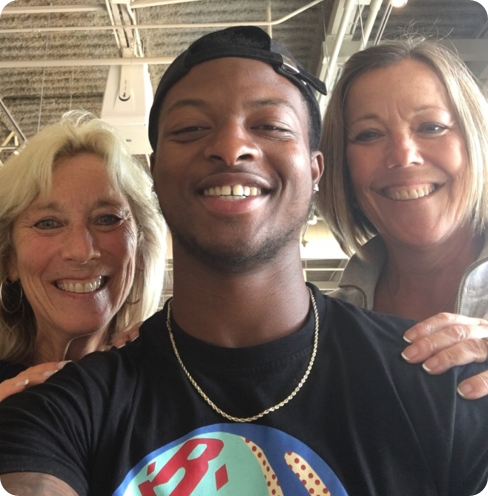
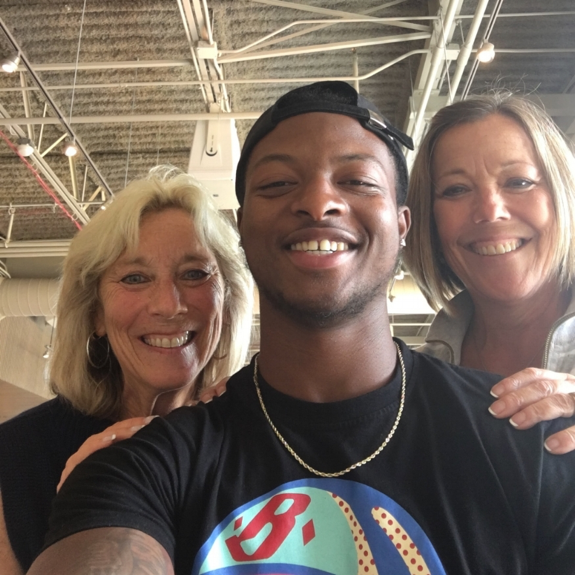
Update (6.22.18)
- Updated About us
- Updated fonts

diff --git a/index.html b/index.html
@@ -134,6 +134,8 @@
 	
 
 		</div>
+
+
 	</div>
 
 	<!-- Quote, above fold, container-1 ends -->
@@ -155,7 +157,7 @@
 						<img src="images/ascd.png" alt="ASCD Logo">
 					</div>
 					<div class="abj">
-						<img src="images/taea.png" alt="TAEA">
+						<img src="images/TAEA.png" alt="TAEA">
 					</div>
 					<div class="abj">
 						<img src="images/abj.png" alt="Akron Beacon Journal Logo">
@@ -183,7 +185,7 @@
 				<div class="col col-12">
 
 					<div class="about-us">
-						<h3 id="about">Teaching your students how to understand their behavior is one of the many challenges of being a teacher</h3>
+						<h3 id="about">Teaching your students how to understand their behavior</h3>
 					</div>
 				</div>
 		</div>
@@ -266,12 +268,14 @@
 				<p>Marcey & Debbie want to hear from you!</p>
 
 				<form id="myForm" method="POST" action="https://formspree.io/aronson.zack@gmail.com">
-						
+					
+					<label for="text">Full Name:</label>	
 					<input type="text" name="fullName" id="nameID" placeholder="Full Name Please">
 
-
+					<label for="email">Email:</label>
 	  				<input type="email" name="email" id="email" placeholder="Your email">
-
+					
+					<label for="message">Message:</label>
 	 				 <textarea name="message" id="message" placeholder="My students are great but..."></textarea>
 
 	 				 <button type="submit" id="submit-button">Submit Form</button>
@@ -306,7 +310,7 @@
 					<div class="icon-footer">
 		<!-- Twitter Icon -->
 
-						<svg class="icon icon-twitter"><use xlink:href="#icon-twitter"></use>
+						<svg class="icon icon-twitter"><use xlink:href="#icon-twitter" target="_blank"></use>
 								<symbol id="icon-twitter" viewBox="0 0 32 32">
 									<title>twitter</title>
 									<path d="M32 7.075c-1.175 0.525-2.444 0.875-3.769 1.031 1.356-0.813 2.394-2.1 2.887-3.631-1.269 0.75-2.675 1.3-4.169 1.594-1.2-1.275-2.906-2.069-4.794-2.069-3.625 0-6.563 2.938-6.563 6.563 0 0.512 0.056 1.012 0.169 1.494-5.456-0.275-10.294-2.888-13.531-6.862-0.563 0.969-0.887 2.1-0.887 3.3 0 2.275 1.156 4.287 2.919 5.463-1.075-0.031-2.087-0.331-2.975-0.819 0 0.025 0 0.056 0 0.081 0 3.181 2.263 5.838 5.269 6.437-0.55 0.15-1.131 0.231-1.731 0.231-0.425 0-0.831-0.044-1.237-0.119 0.838 2.606 3.263 4.506 6.131 4.563-2.25 1.762-5.075 2.813-8.156 2.813-0.531 0-1.050-0.031-1.569-0.094 2.913 1.869 6.362 2.95 10.069 2.95 12.075 0 18.681-10.006 18.681-18.681 0-0.287-0.006-0.569-0.019-0.85 1.281-0.919 2.394-2.075 3.275-3.394z"></path>
@@ -316,7 +320,7 @@
 		<!-- Twitter Icon -->
 		<!-- Facebook Icon -->
 
-						<a href="https://www.facebook.com/brainzones/"><svg class="icon icon-facebook-square"><use xlink:href="#icon-facebook-square"></use>
+						<a href="https://www.facebook.com/brainzones/" target="_blank"><svg class="icon icon-facebook-square"><use xlink:href="#icon-facebook-square"></use>
 
 
 											<symbol id="icon-facebook-square" viewBox="0 0 24 28">

diff --git a/style.css b/style.css
@@ -1,4 +1,7 @@
 
+@import url('https://fonts.googleapis.com/css?family=Open+Sans');
+
+
 html, 
 body {
   margin: 0px;
@@ -462,11 +465,11 @@ background-image: linear-gradient(-135deg, #0EC6E4 100%, #0DA2D6 0%);
 
 .about-us {
 	font-family: OpenSans-Semibold;
-	font-size: 150%;
+	font-size: 235%;
 	color: #232B35;
-	letter-spacing: 0.27px;
+	letter-spacing: 0.41px;
 	text-align: center;
-	line-height: 44px;
+	line-height: 55px;
 	margin: auto;
     margin-top: 50px;
     flex-basis: 86%;
@@ -504,9 +507,18 @@ p strong {
 
 .about img {
 	flex: 2;
-	width: 25%;
+	width: 50%;
 	-ms-grid-row-align: center;
 	    align-self: center;
+	     border-radius: 300px;
+    border: 5px solid #00D1FF;
+    transition: 0.5s ease-in-out all;
+	box-shadow: 0 2px 4px 0 rgba(0,0,0,0.50);
+}
+
+
+.about img:hover {
+	transform: scale(.9);
 }
 
 .selfie-p {
